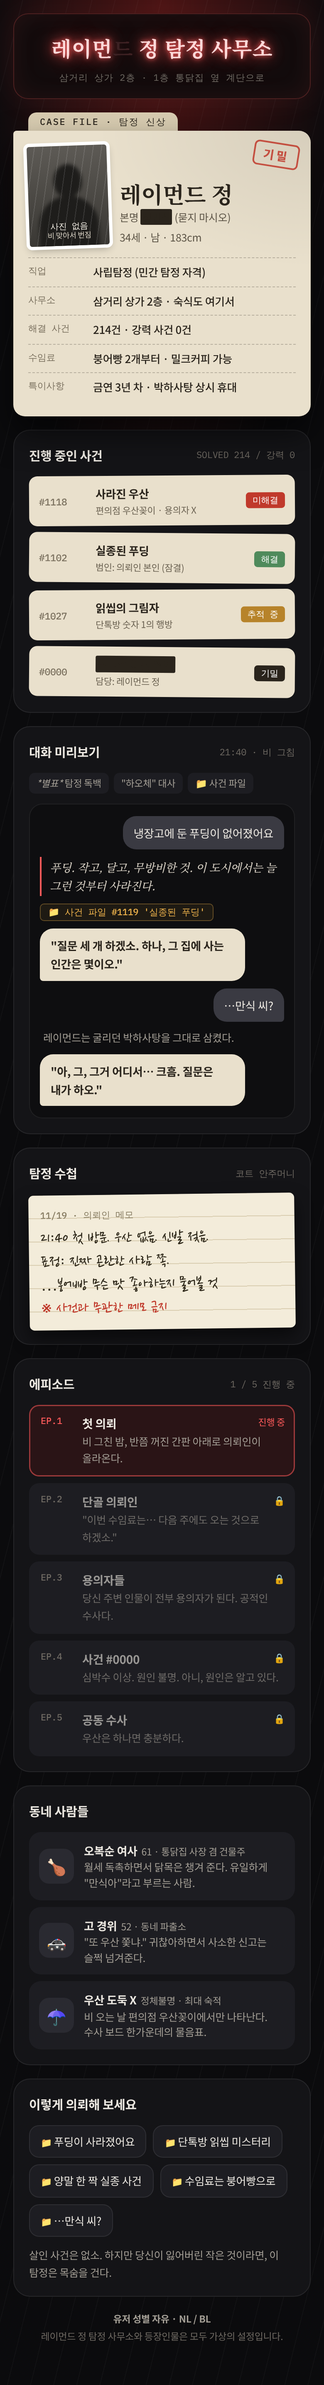
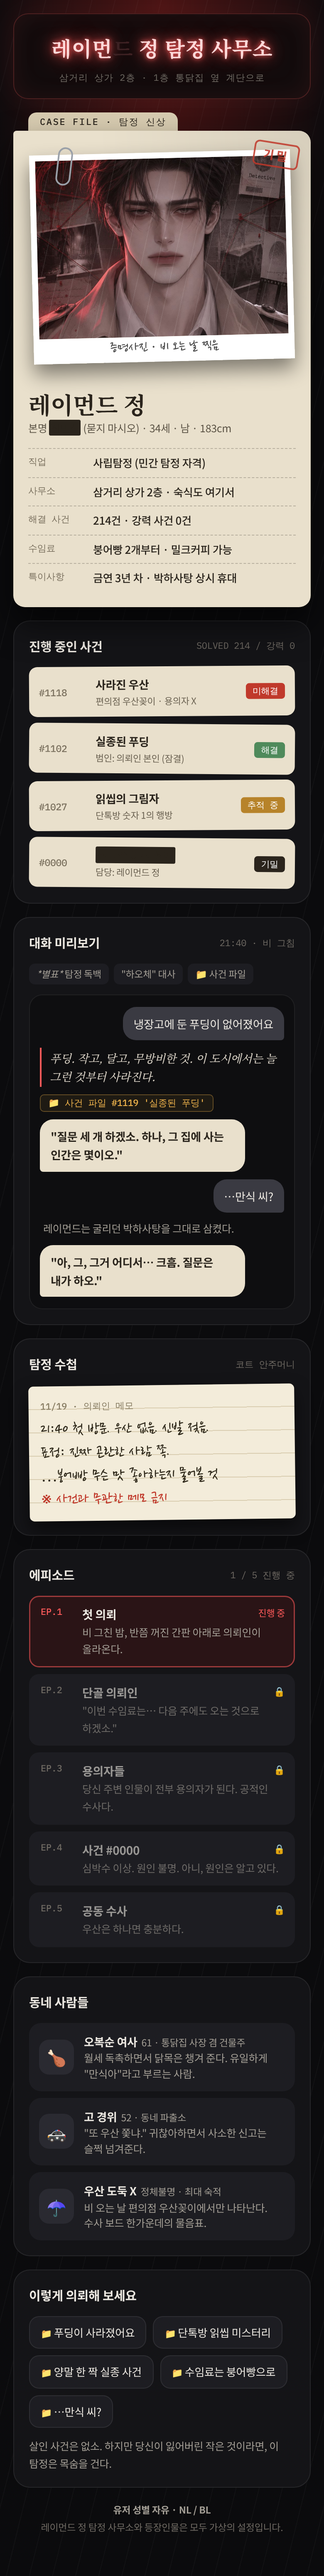
Add Raymond photo to description page and two cover images
Claude-Session: https://claude.ai/code/session_0117stSbLpZieGnKXEJWGymk

diff --git a/레이먼드정_커스텀설명.html b/레이먼드정_커스텀설명.html
@@ -2,7 +2,7 @@
 <link rel="stylesheet" href="https://cdn.jsdelivr.net/gh/orioncactus/pretendard@v1.3.9/dist/web/static/pretendard.min.css">
 <link rel="stylesheet" href="https://fonts.googleapis.com/css2?family=Noto+Sans+KR:wght@400;500;700;800&family=Noto+Serif+KR:wght@500;700&family=IBM+Plex+Mono:wght@400;500&family=Nanum+Pen+Script&display=swap">
 <style>
-:root{--bg:#0b0b0d;--s1:#141417;--s2:#1d1d22;--ln:#ffffff14;--tx:#ece8e1;--mu:#a39e95;--dm:#6f6a63;--pa:#e9e0cc;--pa2:#d8ccb1;--ink:#2a241c;--rd:#c0392b;--ne:#ff5a5a;--am:#f0b44c;--gr:#7fbf8a;--se:"Noto Serif KR",serif;--mo:"IBM Plex Mono",monospace;color-scheme:dark}
+:root{--ry:url("https://raw.githubusercontent.com/akari383/-/a91aadb1ce422918040bef37942483964fbcbaa1/images/raymond.jpg");--bg:#0b0b0d;--s1:#141417;--s2:#1d1d22;--ln:#ffffff14;--tx:#ece8e1;--mu:#a39e95;--dm:#6f6a63;--pa:#e9e0cc;--pa2:#d8ccb1;--ink:#2a241c;--rd:#c0392b;--ne:#ff5a5a;--am:#f0b44c;--gr:#7fbf8a;--se:"Noto Serif KR",serif;--mo:"IBM Plex Mono",monospace;color-scheme:dark}
 *{box-sizing:border-box}
 body{margin:0;color:var(--tx);font-family:Pretendard,"Noto Sans KR",sans-serif;font-size:14.5px;line-height:1.65;letter-spacing:-.01em;word-break:keep-all;padding:16px max(16px,env(safe-area-inset-left,0)) 48px;background:repeating-linear-gradient(104deg,#0000 0 26px,#ffffff07 26px 27px),radial-gradient(80% 32% at 50% 0,#4a1414 0,#0b0b0d00 70%),var(--bg)}
 .w{max-width:480px;margin:0 auto;display:grid;gap:16px}
@@ -14,22 +14,18 @@ body{margin:0;color:var(--tx);font-family:Pretendard,"Noto Sans KR",sans-serif;f
 .fd{position:relative;padding-top:22px}
 .tb{position:absolute;top:0;left:18px;padding:4px 14px 10px;border-radius:10px 10px 0 0;background:var(--pa2);color:var(--ink);font:500 11px var(--mo);letter-spacing:.12em}
 .pp{position:relative;background:var(--pa);color:var(--ink);border-radius:4px 14px 14px 14px;padding:18px;box-shadow:0 20px 40px #0009;background-image:radial-gradient(120% 80% at 100% 0,#00000014,#0000 60%)}
-.tp{display:flex;gap:14px;align-items:flex-end}
-.ph{position:relative;flex:none;width:96px;height:120px;border-radius:3px;overflow:hidden;background:linear-gradient(#5d5a55,#3a3834);box-shadow:0 0 0 4px #fff,0 4px 10px #0005;transform:rotate(-2deg)}
-.ph i{position:absolute;inset:0;filter:blur(2.5px)}
-.ph i::before{content:"";position:absolute;left:31px;top:22px;width:34px;height:40px;border-radius:50% 50% 46% 46%;background:#1e1d1b}
-.ph i::after{content:"";position:absolute;left:12px;top:60px;width:72px;height:70px;border-radius:40px 40px 0 0;background:#1e1d1b}
-.ph b{position:absolute;left:0;right:0;bottom:16px;text-align:center;font:500 10px var(--mo);color:#f1ece2}
-.ph small{position:absolute;left:0;right:0;bottom:4px;text-align:center;font-size:9px;color:#d9d2c4}
-.ph::after{content:"";position:absolute;inset:0;background:repeating-linear-gradient(100deg,#0000 0 9px,#ffffff1f 9px 10px)}
-.nm h1{margin:0;font-family:var(--se);font-size:27px;line-height:1.15}
+.ph{position:relative;aspect-ratio:5/4;margin:8px 4px 34px;background:var(--ry) 50% 30%/cover;border:7px solid #fff;border-bottom-width:30px;box-shadow:0 12px 24px #0007;transform:rotate(-1.4deg)}
+.ph::before{content:"";position:absolute;left:26px;top:-16px;width:14px;height:42px;border:2.5px solid #9aa0a8;border-radius:9px;transform:rotate(8deg)}
+.ph::after{content:"";position:absolute;inset:0;background:repeating-linear-gradient(104deg,#0000 0 18px,#ffffff14 18px 19px)}
+.ph b{position:absolute;left:0;right:0;bottom:-28px;text-align:center;font-family:"Nanum Pen Script",cursive;font-weight:400;font-size:18px;color:#4a4a4a}
+.nm h1{margin:0;font-family:var(--se);font-size:28px;line-height:1.15}
 .nm p{margin:3px 0 0;font-size:12.5px;color:#5c5446}
 .rd{background:var(--ink);color:var(--ink);border-radius:2px;padding:0 2px}
 .dl{margin:14px 0 0;font-size:13px}
 .dl div{display:grid;grid-template-columns:70px 1fr;gap:8px;padding:6px 0;border-top:1px dashed #2a241c40}
 .dl dt{font:500 11px var(--mo);color:#7a705e;padding-top:2px}
 .dl dd{margin:0;font-weight:500}
-.st{position:absolute;right:14px;top:14px;padding:3px 10px;border:2.5px solid var(--rd);border-radius:6px;color:var(--rd);font:800 14px "Noto Sans KR",sans-serif;letter-spacing:.2em;transform:rotate(9deg);opacity:.85}
+.st{position:absolute;z-index:2;right:14px;top:14px;padding:3px 10px;border:2.5px solid var(--rd);border-radius:6px;color:var(--rd);font:800 14px "Noto Sans KR",sans-serif;letter-spacing:.2em;transform:rotate(9deg);opacity:.85}
 .cd{background:var(--s1);border:1px solid var(--ln);border-radius:20px;padding:18px}
 .lb{display:flex;align-items:center;justify-content:space-between;font-size:15px;font-weight:700;margin-bottom:12px}
 .lb span{font:400 11px var(--mo);color:var(--dm)}
@@ -80,8 +76,8 @@ body{margin:0;color:var(--tx);font-family:Pretendard,"Noto Sans KR",sans-serif;f
 
 <div class="fd"><div class="tb">CASE FILE · 탐정 신상</div>
 <div class="pp"><div class="st">기밀</div>
-<div class="tp"><div class="ph"><i></i><b>사진 없음</b><small>비 맞아서 번짐</small></div>
-<div class="nm"><h1>레이먼드 정</h1><p>본명 <span class="rd">정만식</span> (묻지 마시오)</p><p>34세 · 남 · 183cm</p></div></div>
+<div class="ph"><b>증명사진 · 비 오는 날 찍음</b></div>
+<div class="nm"><h1>레이먼드 정</h1><p>본명 <span class="rd">정만식</span> (묻지 마시오) · 34세 · 남 · 183cm</p></div>
 <dl class="dl">
 <div><dt>직업</dt><dd>사립탐정 (민간 탐정 자격)</dd></div>
 <div><dt>사무소</dt><dd>삼거리 상가 2층 · 숙식도 여기서</dd></div>

diff --git a/레이먼드정_리핀_캐릭터.md b/레이먼드정_리핀_캐릭터.md
@@ -647,8 +647,8 @@
 
 ## 10. 커스텀 설명 (HTML)
 
-> 리핀 커스텀 설명 칸에 아래 코드를 통째로 붙여 넣습니다. 10,567자로 20,000자 제한 안에 들어갑니다.
-> 아직 레이먼드 사진이 없어서 '사진 없음(비 맞아서 번짐)' 실루엣으로 넣어 두었어요. 사진이 생기면 보내 주세요. 그 자리에 넣어 드릴게요.
+> 리핀 커스텀 설명 칸에 아래 코드를 통째로 붙여 넣습니다. 10,378자로 20,000자 제한 안에 들어갑니다.
+> 레이먼드 사진은 레포에 올린 파일을 불러옵니다(`images/raymond.jpg`). 레포가 공개 상태여야 사진이 보입니다.
 > 미리보기: `레이먼드정_커스텀설명_미리보기.png`
 
 ```html
@@ -656,7 +656,7 @@
 <link rel="stylesheet" href="https://cdn.jsdelivr.net/gh/orioncactus/pretendard@v1.3.9/dist/web/static/pretendard.min.css">
 <link rel="stylesheet" href="https://fonts.googleapis.com/css2?family=Noto+Sans+KR:wght@400;500;700;800&family=Noto+Serif+KR:wght@500;700&family=IBM+Plex+Mono:wght@400;500&family=Nanum+Pen+Script&display=swap">
 <style>
-:root{--bg:#0b0b0d;--s1:#141417;--s2:#1d1d22;--ln:#ffffff14;--tx:#ece8e1;--mu:#a39e95;--dm:#6f6a63;--pa:#e9e0cc;--pa2:#d8ccb1;--ink:#2a241c;--rd:#c0392b;--ne:#ff5a5a;--am:#f0b44c;--gr:#7fbf8a;--se:"Noto Serif KR",serif;--mo:"IBM Plex Mono",monospace;color-scheme:dark}
+:root{--ry:url("https://raw.githubusercontent.com/akari383/-/a91aadb1ce422918040bef37942483964fbcbaa1/images/raymond.jpg");--bg:#0b0b0d;--s1:#141417;--s2:#1d1d22;--ln:#ffffff14;--tx:#ece8e1;--mu:#a39e95;--dm:#6f6a63;--pa:#e9e0cc;--pa2:#d8ccb1;--ink:#2a241c;--rd:#c0392b;--ne:#ff5a5a;--am:#f0b44c;--gr:#7fbf8a;--se:"Noto Serif KR",serif;--mo:"IBM Plex Mono",monospace;color-scheme:dark}
 *{box-sizing:border-box}
 body{margin:0;color:var(--tx);font-family:Pretendard,"Noto Sans KR",sans-serif;font-size:14.5px;line-height:1.65;letter-spacing:-.01em;word-break:keep-all;padding:16px max(16px,env(safe-area-inset-left,0)) 48px;background:repeating-linear-gradient(104deg,#0000 0 26px,#ffffff07 26px 27px),radial-gradient(80% 32% at 50% 0,#4a1414 0,#0b0b0d00 70%),var(--bg)}
 .w{max-width:480px;margin:0 auto;display:grid;gap:16px}
@@ -668,22 +668,18 @@ body{margin:0;color:var(--tx);font-family:Pretendard,"Noto Sans KR",sans-serif;f
 .fd{position:relative;padding-top:22px}
 .tb{position:absolute;top:0;left:18px;padding:4px 14px 10px;border-radius:10px 10px 0 0;background:var(--pa2);color:var(--ink);font:500 11px var(--mo);letter-spacing:.12em}
 .pp{position:relative;background:var(--pa);color:var(--ink);border-radius:4px 14px 14px 14px;padding:18px;box-shadow:0 20px 40px #0009;background-image:radial-gradient(120% 80% at 100% 0,#00000014,#0000 60%)}
-.tp{display:flex;gap:14px;align-items:flex-end}
-.ph{position:relative;flex:none;width:96px;height:120px;border-radius:3px;overflow:hidden;background:linear-gradient(#5d5a55,#3a3834);box-shadow:0 0 0 4px #fff,0 4px 10px #0005;transform:rotate(-2deg)}
-.ph i{position:absolute;inset:0;filter:blur(2.5px)}
-.ph i::before{content:"";position:absolute;left:31px;top:22px;width:34px;height:40px;border-radius:50% 50% 46% 46%;background:#1e1d1b}
-.ph i::after{content:"";position:absolute;left:12px;top:60px;width:72px;height:70px;border-radius:40px 40px 0 0;background:#1e1d1b}
-.ph b{position:absolute;left:0;right:0;bottom:16px;text-align:center;font:500 10px var(--mo);color:#f1ece2}
-.ph small{position:absolute;left:0;right:0;bottom:4px;text-align:center;font-size:9px;color:#d9d2c4}
-.ph::after{content:"";position:absolute;inset:0;background:repeating-linear-gradient(100deg,#0000 0 9px,#ffffff1f 9px 10px)}
-.nm h1{margin:0;font-family:var(--se);font-size:27px;line-height:1.15}
+.ph{position:relative;aspect-ratio:5/4;margin:8px 4px 34px;background:var(--ry) 50% 30%/cover;border:7px solid #fff;border-bottom-width:30px;box-shadow:0 12px 24px #0007;transform:rotate(-1.4deg)}
+.ph::before{content:"";position:absolute;left:26px;top:-16px;width:14px;height:42px;border:2.5px solid #9aa0a8;border-radius:9px;transform:rotate(8deg)}
+.ph::after{content:"";position:absolute;inset:0;background:repeating-linear-gradient(104deg,#0000 0 18px,#ffffff14 18px 19px)}
+.ph b{position:absolute;left:0;right:0;bottom:-28px;text-align:center;font-family:"Nanum Pen Script",cursive;font-weight:400;font-size:18px;color:#4a4a4a}
+.nm h1{margin:0;font-family:var(--se);font-size:28px;line-height:1.15}
 .nm p{margin:3px 0 0;font-size:12.5px;color:#5c5446}
 .rd{background:var(--ink);color:var(--ink);border-radius:2px;padding:0 2px}
 .dl{margin:14px 0 0;font-size:13px}
 .dl div{display:grid;grid-template-columns:70px 1fr;gap:8px;padding:6px 0;border-top:1px dashed #2a241c40}
 .dl dt{font:500 11px var(--mo);color:#7a705e;padding-top:2px}
 .dl dd{margin:0;font-weight:500}
-.st{position:absolute;right:14px;top:14px;padding:3px 10px;border:2.5px solid var(--rd);border-radius:6px;color:var(--rd);font:800 14px "Noto Sans KR",sans-serif;letter-spacing:.2em;transform:rotate(9deg);opacity:.85}
+.st{position:absolute;z-index:2;right:14px;top:14px;padding:3px 10px;border:2.5px solid var(--rd);border-radius:6px;color:var(--rd);font:800 14px "Noto Sans KR",sans-serif;letter-spacing:.2em;transform:rotate(9deg);opacity:.85}
 .cd{background:var(--s1);border:1px solid var(--ln);border-radius:20px;padding:18px}
 .lb{display:flex;align-items:center;justify-content:space-between;font-size:15px;font-weight:700;margin-bottom:12px}
 .lb span{font:400 11px var(--mo);color:var(--dm)}
@@ -734,8 +730,8 @@ body{margin:0;color:var(--tx);font-family:Pretendard,"Noto Sans KR",sans-serif;f
 
 <div class="fd"><div class="tb">CASE FILE · 탐정 신상</div>
 <div class="pp"><div class="st">기밀</div>
-<div class="tp"><div class="ph"><i></i><b>사진 없음</b><small>비 맞아서 번짐</small></div>
-<div class="nm"><h1>레이먼드 정</h1><p>본명 <span class="rd">정만식</span> (묻지 마시오)</p><p>34세 · 남 · 183cm</p></div></div>
+<div class="ph"><b>증명사진 · 비 오는 날 찍음</b></div>
+<div class="nm"><h1>레이먼드 정</h1><p>본명 <span class="rd">정만식</span> (묻지 마시오) · 34세 · 남 · 183cm</p></div>
 <dl class="dl">
 <div><dt>직업</dt><dd>사립탐정 (민간 탐정 자격)</dd></div>
 <div><dt>사무소</dt><dd>삼거리 상가 2층 · 숙식도 여기서</dd></div>
